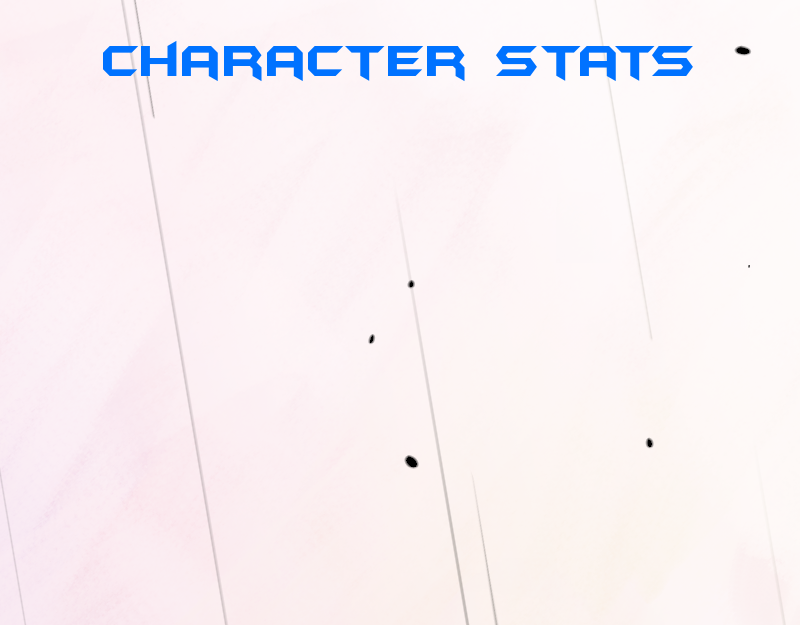
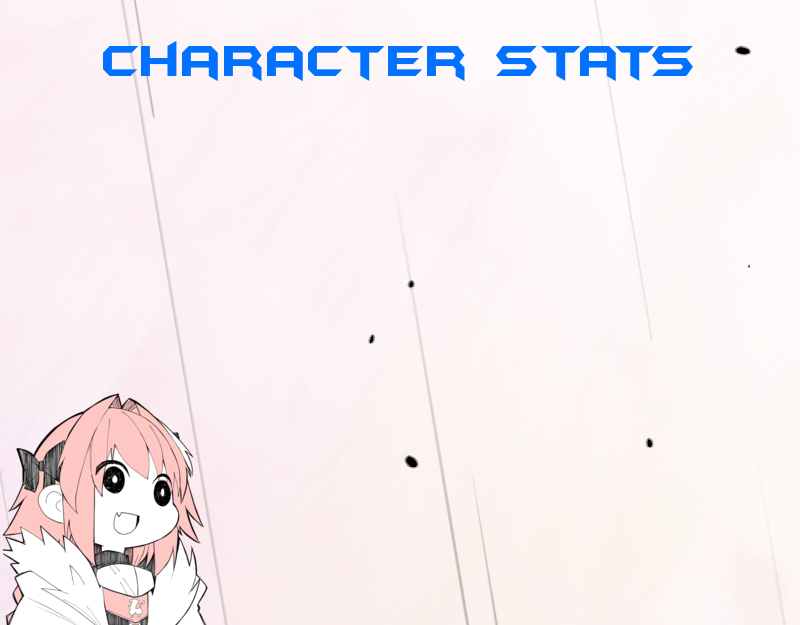
Added functionality for - CharStatsGUI - Added Images and Assets

Changed region(s): [[0.0, 0.608, 0.25, 1.0]]

diff --git a/src/main/ui/CharStatGUI.java b/src/main/ui/CharStatGUI.java
@@ -6,11 +6,15 @@ import javafx.scene.control.Button;
 import javafx.scene.image.Image;
 import javafx.scene.image.ImageView;
 import javafx.scene.layout.StackPane;
+import javafx.scene.text.Font;
+import javafx.scene.text.Text;
 import javafx.stage.Stage;
 import model.GamePanel;
+import model.TextItem;
 
 import java.io.FileInputStream;
 import java.io.FileNotFoundException;
+import java.util.ArrayList;
 
 
 public class CharStatGUI extends SceneSettings {
@@ -21,6 +25,7 @@ public class CharStatGUI extends SceneSettings {
     Scene inGameMenuScene;
     Button okButton;
     ImageView charStatScreen;
+    Text charStatsText;
 
     public CharStatGUI(GamePanel game, Stage stage, Scene scene) {
         this.game = game;
@@ -28,6 +33,7 @@ public class CharStatGUI extends SceneSettings {
         this.inGameMenuScene = scene;
         mainLayout = new StackPane(); // controls layout of how it is displayed -> our root node
         okButton = new Button("Done");
+        charStatsText = new Text();
         StackPane.setMargin(okButton, new Insets(500,0,0,700));
 
         charStatScene = new Scene(mainLayout);
@@ -40,9 +46,33 @@ public class CharStatGUI extends SceneSettings {
         } catch (FileNotFoundException e) {
             //
         }
+        StackPane.setMargin(charStatsText, new Insets(0,0,0,0));
 
-        mainLayout.getChildren().add(okButton);
+        mainLayout.getChildren().addAll(okButton,charStatsText);
         okButton.setOnAction(e -> switchToInGameMenu());
+        displayStats();
+    }
+
+    public void displayStats() {
+        charStatsText.setFont(Font.font("Arial", 14));
+        String formattedTextItemsStr = "";
+        String formattedInventoryItemsString = "";
+        for (String t: game.textCollection.getAllTextItemNames()) {
+            formattedTextItemsStr += "\n" + t;
+        }
+        for (String i: game.inventory.getAllInventoryItemGameItemNames()) {
+            formattedInventoryItemsString += "\n" + i;
+        }
+
+        charStatsText.setText(" Name:\t" + game.character.getName()
+                + "\n Balance: \t" + game.character.getBalance()
+                + "\n Stats:\t" + game.character.getCharacterAttributes()
+                + "\n Starting Class:\t" + game.character.getCharacterClass()
+                + "\n\nInventory:\nTotal Inventory Items:\t" + game.inventory.getInventoryTotalItems()
+                + "\n Inventory Items:\t" + formattedInventoryItemsString
+                + "\n\nText Collection Items:\t" + formattedTextItemsStr
+                + "\nTotal Text Items:\t" + game.textCollection.getTextCollectionTotalTexts()
+        );
     }
 
 

diff --git a/src/main/ui/CollectionGUI.java b/src/main/ui/CollectionGUI.java
@@ -1,5 +1,6 @@
 package ui;
 
+import javafx.event.EventHandler;
 import javafx.geometry.Insets;
 import javafx.scene.Scene;
 import javafx.scene.control.Alert;
@@ -8,6 +9,8 @@ import javafx.scene.control.ListView;
 import javafx.scene.control.SelectionMode;
 import javafx.scene.image.Image;
 import javafx.scene.image.ImageView;
+import javafx.scene.input.KeyCode;
+import javafx.scene.input.KeyEvent;
 import javafx.scene.layout.StackPane;
 import javafx.scene.text.Text;
 import javafx.stage.Stage;
@@ -58,6 +61,20 @@ public class CollectionGUI extends SceneSettings {
 
         StackPane.setMargin(userInfoAfterItemEvent, new Insets(370,0,0,0));
         mainLayout.getChildren().add(collectionDecorImage);
+        setUpKeyEvent();
+
+    }
+
+
+    public void setUpKeyEvent() {
+        listView.setOnKeyPressed(new EventHandler<KeyEvent>() {
+            @Override
+            public void handle(KeyEvent event) {
+                if (event.getCode().equals(KeyCode.ENTER)) {
+                    viewTextDetails();
+                }
+            }
+        });
     }
 
 
@@ -110,11 +127,8 @@ public class CollectionGUI extends SceneSettings {
             userInfoAfterItemEvent.setText("You have selected the following text: \n"
                     + "Book ID:\t" + textSelected.getBookID() + "\nBook Title:\t" + textSelected.getTextItemName()
                     + "\nContent: \t" + textSelected.getTextItemContent());
-
         }
     }
-
-
 
 
     public void switchToInGameMenu() {

diff --git a/src/main/ui/MasterFrame.java b/src/main/ui/MasterFrame.java
@@ -73,9 +73,9 @@ public class MasterFrame extends Application {
         }
         setUpMainMenuButtons();
         mainLayout.getChildren().addAll(newGameButton, loadGameButton, quitButton);
-        StackPane.setMargin(newGameButton, new Insets(30,0,0,0));
-        StackPane.setMargin(loadGameButton, new Insets(150,0,0,0));
-        StackPane.setMargin(quitButton, new Insets(270,0,0,0));
+        StackPane.setMargin(newGameButton, new Insets(100,0,0,0));
+        StackPane.setMargin(loadGameButton, new Insets(220,0,0,0));
+        StackPane.setMargin(quitButton, new Insets(340,0,0,0));
         Scene scene = new Scene(mainLayout);
         scene.setCursor(Cursor.DEFAULT);
         mainWindow.setScene(scene);
